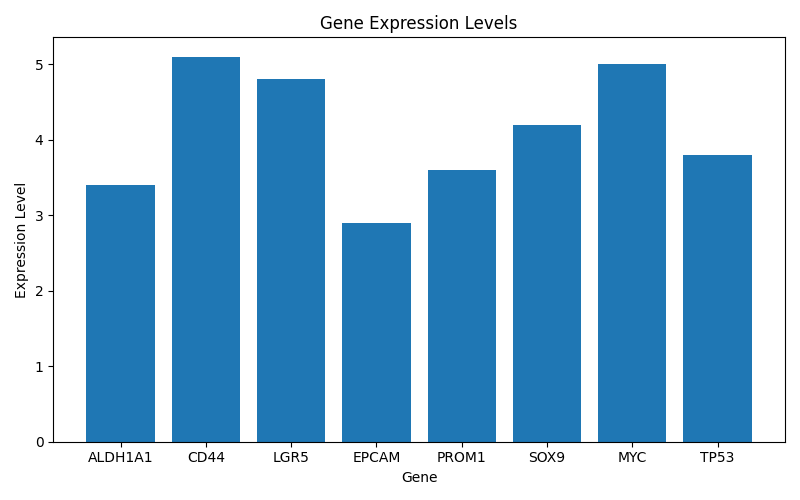
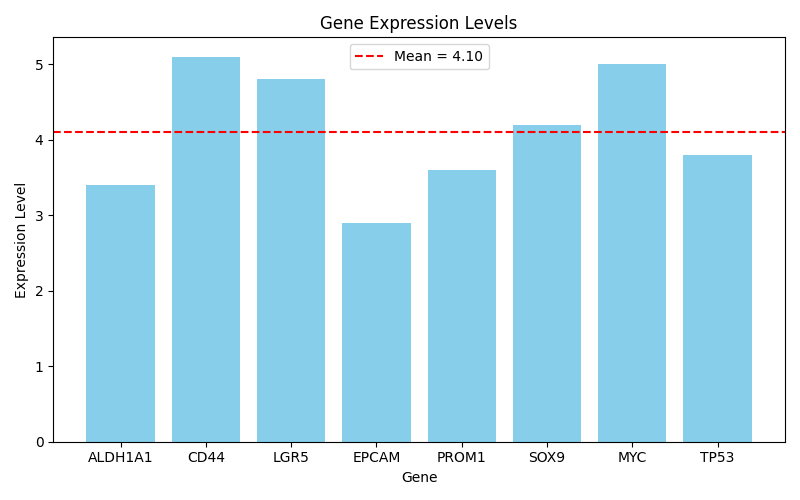
Updated script and plot with mean expression line

diff --git a/gene_expression_summary.py b/gene_expression_summary.py
@@ -7,21 +7,21 @@ data = pd.read_csv("gene_expression_data.csv")
 
 # Basic stats
 mean_expression = data["Expression_Level"].mean()
-max_gene = data.loc[data["Expression_Level"].idxmax(), "Gene"]
-min_gene = data.loc[data["Expression_Level"].idxmin(), "Gene"]
+highest_gene = data.loc[data["Expression_Level"].idxmax(), "Gene"]
+lowest_gene = data.loc[data["Expression_Level"].idxmin(), "Gene"]
 
 print(f"Average expression level: {mean_expression:.2f}")
-print(f"Highest expressed gene: {max_gene}")
-print(f"Lowest expressed gene: {min_gene}")
+print(f"Highest expressed gene: {highest_gene}")
+print(f"Lowest expressed gene: {lowest_gene}")
 
 # Plot
-plt.bar(df['Gene'], df['Expression'], color='skyblue')
-plt.axhline(y=average_expression, color='red', linestyle='--', label=f'Mean = {average_expression:.2f}')
-plt.xlabel('Gene')
-plt.ylabel('Expression Level')
-plt.title('Gene Expression Levels')
+plt.figure(figsize=(8, 5))
+plt.bar(data["Gene"], data["Expression_Level"], color="skyblue")
+plt.axhline(y=mean_expression, color="red", linestyle="--", label=f"Mean = {mean_expression:.2f}")
+plt.title("Gene Expression Levels")
+plt.xlabel("Gene")
+plt.ylabel("Expression Level")
 plt.legend()
 plt.tight_layout()
-plt.savefig('gene_expression_plot.png')
+plt.savefig("gene_expression_plot.png")
 plt.show()
-print("Plot saved as 'gene_expression_plot.png'")
